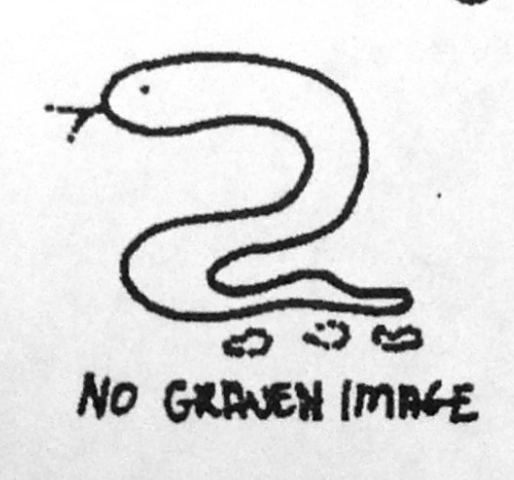
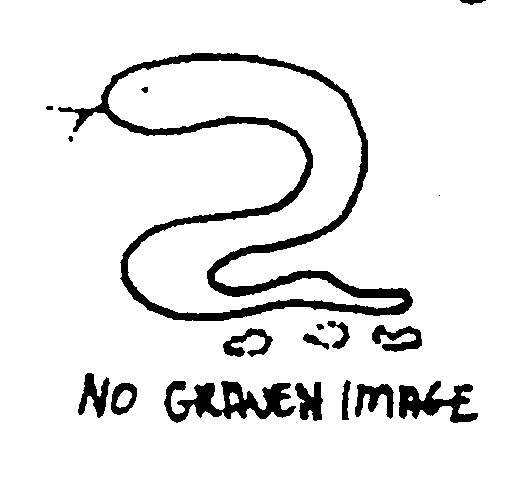
updated visual

diff --git a/pages/cc_lessons/the_second_commandment.md b/pages/cc_lessons/the_second_commandment.md
@@ -25,5 +25,5 @@ In teaching the ten commandments, we are laying the foundation for the children 
 Repentance is about feeling sorry for what they’ve done and asking God for forgiveness, turning away from bad choices. 
 
 
-![1st Commandment](/preschool/images/02_no_graven_image.png)
+![1st Commandment](/preschool/images/02_no_graven_image.jpg)
 
